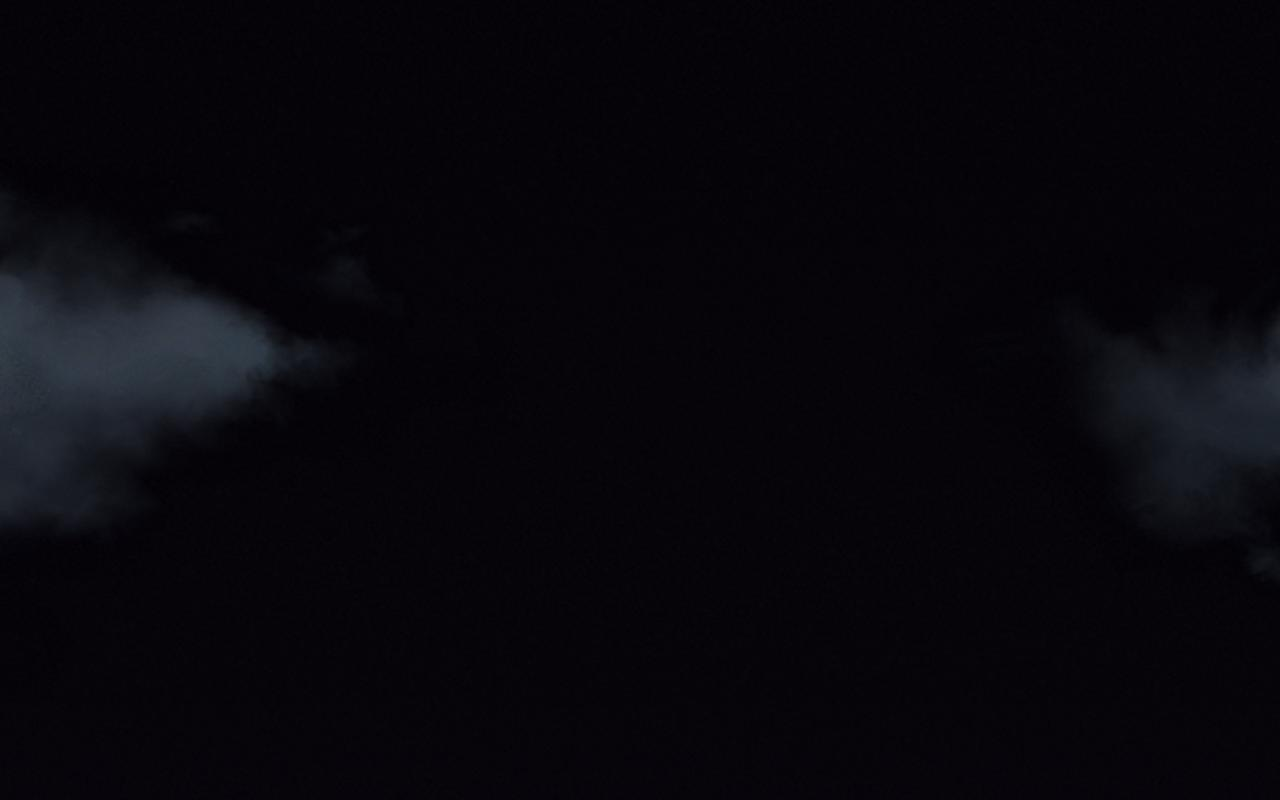
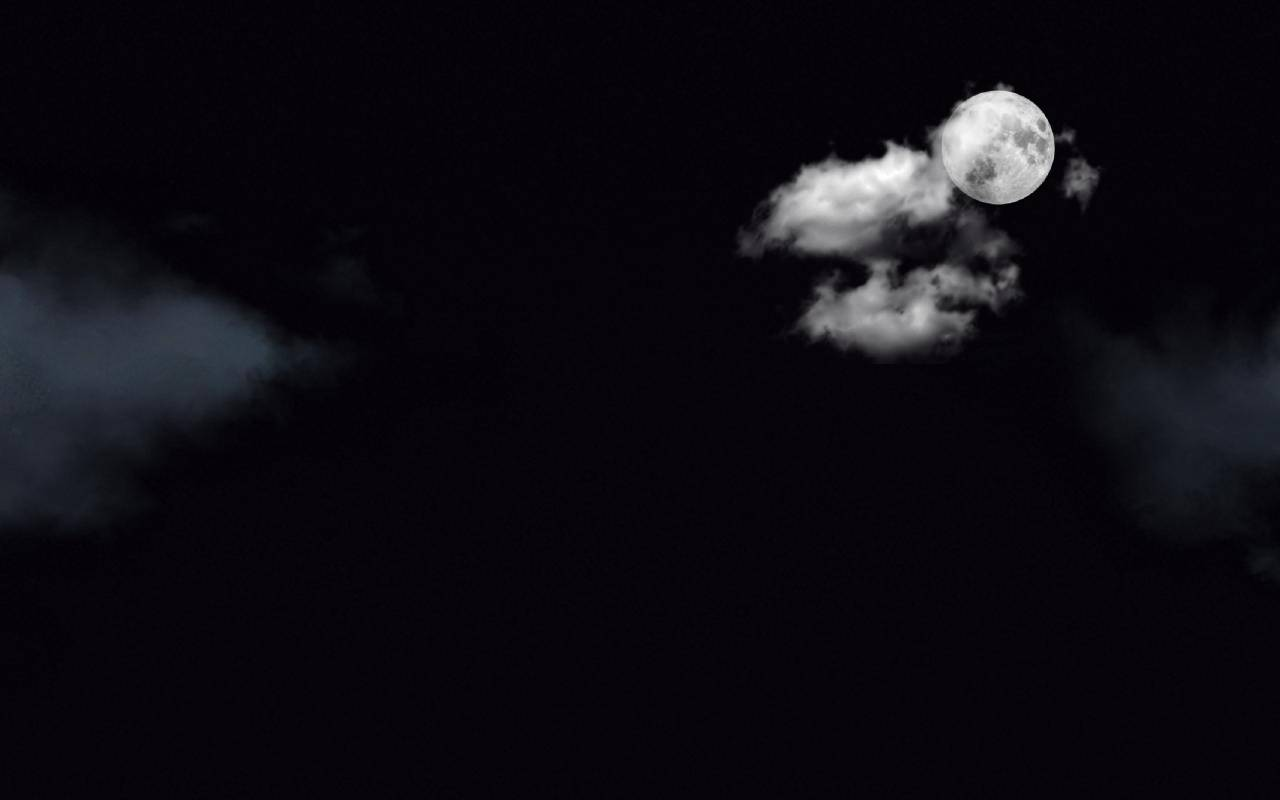
update

Changed region(s): [[0.5625, 0.0938, 0.875, 0.4688]]

diff --git a/src/components/weather/Weather.js b/src/components/weather/Weather.js
@@ -32,13 +32,13 @@ const Weather = ({ city }) => {
     let style;
     if (dateNow <= sunrise) {
         style = { 'transform': `rotate(0deg)` };
-        document.querySelector('body').style.background = `url(${night}) center center/cover no-repeat`;
+        document.body.style.background = `url(${night}) center center/cover no-repeat`;
     } else if (dateNow > sunset) {
         style = { 'transform': `rotate(100deg)` };
-        document.querySelector('body').style.background = `url(${night}) center center/cover no-repeat`;
+        document.body.style.background = `url(${night}) center center/cover no-repeat`;
     } else if (sunrise < dateNow || dateNow < sunset) {
         style = { 'transform': `rotate(${sunsetDistance}deg)` };
-        document.querySelector('body').style.background = `url(${blueSky}) center center/cover no-repeat `;
+        document.body.style.background = `url(${blueSky}) center center/cover no-repeat `;
     }
 
     return (

diff --git a/src/services/WeatherService.js b/src/services/WeatherService.js
@@ -1,5 +1,5 @@
 export default class WeatherService {
-    _apiBase = 'http://api.openweathermap.org/data/2.5/weather';
+    _apiBase = 'https://api.openweathermap.org/data/2.5/weather';
     _apiKey = 'appid=60f6d2438edc03c76131adc3db79b9cb';
 
     getResource = async (url) => {
@@ -20,7 +20,7 @@ export default class WeatherService {
 
     transformSity = (city) => {
         return {
-            icon: ` http://openweathermap.org/img/wn/${city.weather[0].icon}@2x.png`,
+            icon: ` https://openweathermap.org/img/wn/${city.weather[0].icon}@2x.png`,
             name: city.name,
             country: city.sys.country,
             description: city.weather[0].description,

diff --git a/src/index.css b/src/index.css
@@ -14,19 +14,6 @@ body {
     color: rgb(26, 26, 26);
 }
 
-body:after {
-    content: '';
-    position: absolute;
-    top: 10%;
-    right: 10%;
-    background: rgba(255, 255, 255, .4);
-    width: 100px;
-    height: 100px;
-    border-radius: 50%;
-    box-shadow: 0px 0px 25px rgba(255, 255, 255, 0.5);
-    z-index: -1;
-}
-
 code {
     font-family: source-code-pro, Menlo, Monaco, Consolas, 'Courier New',
         monospace;
